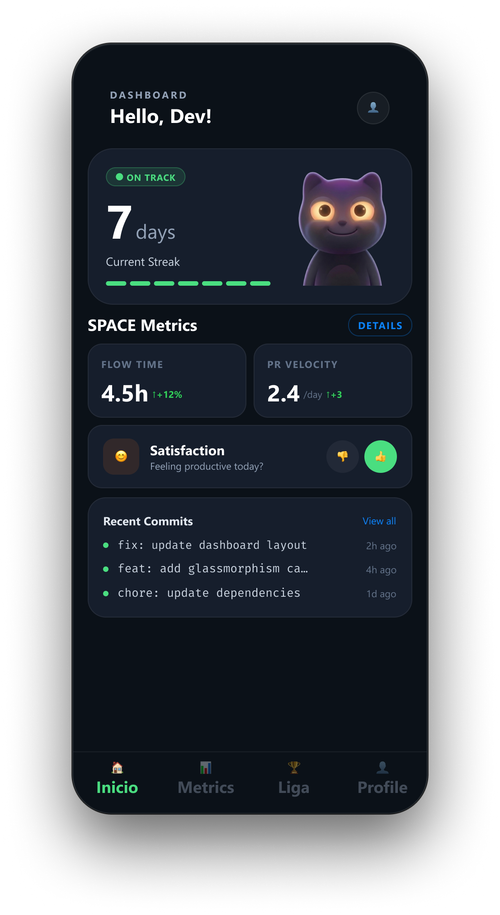
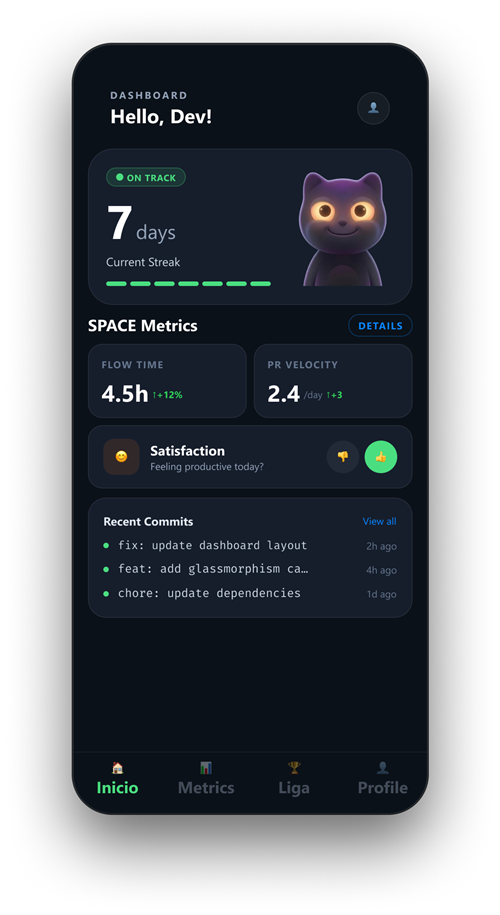
Update DuoGit/Cuak covers, add Flare WIP section, and turn the before/after comparison into an infinite slider
Updated cover art for DuoGit and Cuak with a matching corner radius, softened metric copy to read as projections rather than achieved results, added a "Currently building" section on the home page for Flare, and replaced the static Annotated UI mockup with a looping slider of the four DuoGit screens.

diff --git a/pages/duogit-design-system.html b/pages/duogit-design-system.html
@@ -160,11 +160,43 @@
     .ref-sheet-card img { width: 100%; display: block; }
     .ref-sheet-card p { padding: 10px 14px; font-size: 12px; color: var(--faint); letter-spacing: .04em; }
 
-    .ba-grid { display: grid; grid-template-columns: 1fr auto 1fr; gap: 16px; align-items: center; margin-top: 32px; }
+    .ba-grid { display: grid; grid-template-columns: 1fr auto 1fr; gap: 16px; align-items: stretch; margin-top: 32px; }
     @media (max-width: 640px) { .ba-grid { grid-template-columns: 1fr; } .ba-arrow { transform: rotate(90deg); } }
-    .ba-card { border-radius: var(--r); border: 1px solid var(--stroke-light); overflow: hidden; }
+    .ba-card { border-radius: var(--r); border: 1px solid var(--stroke-light); overflow: hidden; display: flex; flex-direction: column; }
     .ba-card-header { padding: 10px 16px; border-bottom: 1px solid var(--stroke); font-size: 11px; letter-spacing: .1em; text-transform: uppercase; color: var(--faint); }
-    .ba-card-body { padding: 20px; min-height: 180px; background: var(--bg-card); display: flex; align-items: center; justify-content: center; }
+    .ba-card-body { padding: 20px; min-height: 180px; height: 340px; background: var(--bg-card); display: flex; align-items: center; justify-content: center; }
+    .ba-card-body img { max-width: 100%; max-height: 100%; width: auto; height: auto; object-fit: contain; border-radius: 8px; display: block; }
+
+    .cmp-slider { overflow: hidden; position: relative; }
+    .cmp-slider::before, .cmp-slider::after {
+      content: ""; position: absolute; top: 0; bottom: 0; width: 48px; z-index: 2; pointer-events: none;
+    }
+    .cmp-slider::before { left: 0; background: linear-gradient(90deg, #0a0a0d, transparent); }
+    .cmp-slider::after { right: 0; background: linear-gradient(270deg, #0a0a0d, transparent); }
+    .cmp-track {
+      display: flex;
+      align-items: center;
+      gap: 16px;
+      height: 100%;
+      padding: 20px 24px;
+      width: max-content;
+      animation: cmp-scroll 22s linear infinite;
+    }
+    .cmp-slider:hover .cmp-track { animation-play-state: paused; }
+    .cmp-img {
+      max-height: 100%;
+      width: auto;
+      flex-shrink: 0;
+      border-radius: 8px;
+      filter: drop-shadow(0 10px 24px rgba(0,0,0,.4));
+    }
+    @keyframes cmp-scroll {
+      from { transform: translateX(0); }
+      to { transform: translateX(-50%); }
+    }
+    @media (prefers-reduced-motion: reduce) {
+      .cmp-track { animation: none; }
+    }
     .ba-placeholder { width: 100%; min-height: 160px; border: 2px dashed var(--stroke-light); border-radius: 8px; display: flex; flex-direction: column; align-items: center; justify-content: center; gap: 8px; color: var(--faint); font-size: 13px; }
     .ba-arrow { font-size: 24px; color: var(--accent); text-align: center; }
     .ba-annotation { font-size: 12px; color: var(--muted); padding: 12px 16px; border-top: 1px solid var(--stroke); line-height: 1.6; }
@@ -481,15 +513,24 @@
         <div class="ba-card">
           <div class="ba-card-header">Before — GitHub contribution graph</div>
           <div class="ba-card-body" style="padding:12px">
-            <img src="../assets/img/duogit/compare-github.png" alt="A real GitHub contribution graph — raw activity data, no framing" style="width:100%;border-radius:8px;display:block">
+            <img src="../assets/img/duogit/compare-github.png" alt="A real GitHub contribution graph — raw activity data, no framing">
           </div>
           <p class="ba-annotation">Real activity, zero framing. The graph doesn't say whether this pace is good, whether a streak is at risk, or how it should make you feel — just squares and a count.</p>
         </div>
         <div class="ba-arrow">→</div>
         <div class="ba-card">
           <div class="ba-card-header">After — DuoGit interface</div>
-          <div class="ba-card-body" style="padding:12px;background:#0a0a0d">
-            <img src="../assets/img/duogit/compare-dashboard.png" alt="DuoGit dashboard — same activity, framed as streak and emotional state" style="width:100%;border-radius:8px;display:block">
+          <div class="ba-card-body cmp-slider" style="padding:0;background:#0a0a0d">
+            <div class="cmp-track">
+              <img class="cmp-img" src="../assets/img/duogit/compare-dashboard.png" alt="DuoGit dashboard — same activity, framed as streak and emotional state">
+              <img class="cmp-img" src="../assets/img/duogit/compare-metrics.png" alt="DuoGit SPACE metrics screen">
+              <img class="cmp-img" src="../assets/img/duogit/compare-league.png" alt="DuoGit league rank screen">
+              <img class="cmp-img" src="../assets/img/duogit/compare-profile.png" alt="DuoGit profile screen">
+              <img class="cmp-img" src="../assets/img/duogit/compare-dashboard.png" alt="" aria-hidden="true">
+              <img class="cmp-img" src="../assets/img/duogit/compare-metrics.png" alt="" aria-hidden="true">
+              <img class="cmp-img" src="../assets/img/duogit/compare-league.png" alt="" aria-hidden="true">
+              <img class="cmp-img" src="../assets/img/duogit/compare-profile.png" alt="" aria-hidden="true">
+            </div>
           </div>
           <p class="ba-annotation">Same underlying data — streak framing, Ghost's emotional state, SPACE metrics. Absence feels <strong style="color:var(--accent)">recoverable, not shameful</strong>.</p>
         </div>
@@ -503,12 +544,7 @@
       <span class="section-label">07 — Annotated UI</span>
       <h2 class="section-title">Every element <span class="accent">earns its place</span></h2>
       <p class="section-text">Strategic annotations connecting UI decisions to behavioral mechanisms.</p>
-
-      <div class="annotated-wrap">
-        <div style="border-radius:var(--r);overflow:hidden;background:#0a0a0d;border:1px solid var(--stroke-light);padding:20px;max-width:420px">
-          <img src="../assets/img/duogit/annotated-dashboard.png" alt="DuoGit Dashboard screen — annotated" style="width:100%;border-radius:8px;display:block">
-        </div>
-      </div>
+      <span class="pill" style="border-color:rgba(251,191,36,.3);color:#fbbf24;background:rgba(251,191,36,.1);margin-top:16px;display:inline-block">In design — mockup, not shipped UI</span>
 
       <div class="annotation-list">
         <div class="annotation-item">

diff --git a/pages/duogit.html b/pages/duogit.html
@@ -37,8 +37,8 @@
       --serif: "Bricolage Grotesque", sans-serif;
       --sans: "Bricolage Grotesque", sans-serif;
       --max: 1040px;
-      --r: 12px;
-      --rl: 16px;
+      --r: 27.6px;
+      --rl: 27.6px;
     }
 
     * {
@@ -314,10 +314,10 @@
     .hero-image {
       position: relative;
       width: 100%;
-      aspect-ratio: 16/9;
+      aspect-ratio: 2000/996;
       background: var(--bg-card);
       border: 1px solid var(--stroke-light);
-      border-radius: var(--rl);
+      border-radius: 27.6px;
       overflow: hidden
     }
 
@@ -1186,22 +1186,12 @@
     <!-- HERO -->
     <section class="hero">
       <div class="container">
-        <div class="hero-label">
-          <span>Gamification · Developer Tools</span><span>·</span>
-          <span>iOS & Android · 2026</span>
-        </div>
         <h1 class="hero-title">
           The developer's <span class="accent">emotional companion</span>
         </h1>
         <p class="hero-subtitle">
           GitHub tracks what you did. DuoGit makes you want to do it again. A cross-platform mobile app that turns cold commit data into motivating emotional feedback — filling the gap between utilitarian dev tools and generic gamification.
         </p>
-        <div class="tldr">
-          <div class="tldr-item"><span>UX / Product Design</span></div>
-          <div class="tldr-item"><span>Figma · React Native · Expo</span></div>
-          <div class="tldr-item"><span>9 Screens Built</span></div>
-          <div class="tldr-item highlight"><span>Users checked streak in first 30s unprompted</span></div>
-        </div>
         <div class="hero-image">
           <img src="../assets/img/duogit/portada.jpg" alt="DuoGit — App Overview" />
         </div>
@@ -1272,19 +1262,19 @@
               <div class="feature-row">
                 <div class="feature-info">
                   <h4>Daily Commit Rate</h4>
-                  <p>Increase baseline from ~1 commit/day to ≥3 commits/day</p>
+                  <p>Target: increase baseline from ~1 commit/day to ≥3 commits/day</p>
                 </div>
               </div>
               <div class="feature-row">
                 <div class="feature-info">
                   <h4>Weekly Streak Duration</h4>
-                  <p>Increase baseline from 2-3 days to 5+ consecutive days</p>
+                  <p>Target: increase baseline from 2-3 days to 5+ consecutive days</p>
                 </div>
               </div>
               <div class="feature-row">
                 <div class="feature-info">
                   <h4>Post-Streak Recovery</h4>
-                  <p>Improve rate of recovery within 3 days from <30% to >60%</p>
+                  <p>Target: improve rate of recovery within 3 days from <30% to >60%</p>
                 </div>
               </div>
             </div>
@@ -1741,7 +1731,7 @@
             </div>
             <div>
               <div style="margin-top:12px;background:var(--bg-card);border:1px solid var(--stroke-light);border-radius:var(--rl);overflow:hidden;padding:28px;display:flex;flex-direction:column;justify-content:center;gap:16px;">
-                <p style="font-size:15px;line-height:1.8;color:var(--text-muted);">DuoGit owns the <strong style="color:var(--text);">developer behavior layer</strong> by pairing live commit sync with emotional streak coaching. It turns progress signals into motivating feedback, closing the gap between code tracking and sustained coding habits.</p>
+                <p style="font-size:15px;line-height:1.8;color:var(--text-muted);">DuoGit owns the <strong style="color:var(--text);">developer behavior layer</strong> by pairing commit sync with emotional streak coaching. It's designed to turn progress signals into motivating feedback, closing the gap between code tracking and sustained coding habits.</p>
                 <p style="font-size:15px;line-height:1.8;color:var(--text-muted);">Where GitHub tracks history and Duolingo gamifies generic habits, DuoGit is the only product built specifically for <strong style="color:var(--text);">developer consistency</strong> — not just activity.</p>
               </div>
             </div>

diff --git a/index.html b/index.html
@@ -92,6 +92,29 @@
         </div>
       </section>
 
+      <!-- CURRENTLY BUILDING -->
+      <section class="work" style="padding-top: 0;">
+        <div class="container">
+          <p class="section-label">Currently building</p>
+          <p class="section-sub">The case studies above are finished systems. This one's still in the workshop.</p>
+
+          <article class="case now-case">
+            <div class="case-visual now-visual">
+              <img src="./assets/img/flare/portada.jpg" alt="Flare — Synapse engine preview" loading="lazy" decoding="async">
+            </div>
+            <div class="case-body">
+              <p class="case-meta"><span class="wip-dot" aria-hidden="true"></span>2026 · In progress</p>
+              <h3 class="case-title">Flare</h3>
+              <p class="case-desc">The second proactive brain for content creators. A React Native + Skia app that surfaces micro-trends before they go viral and adapts them to each creator's niche through vector search — built around Synapse, an infinite physics canvas where sources, signals and predictions live as connected nodes.</p>
+
+              <div class="case-links">
+                <span class="case-link is-disabled">Case study coming soon</span>
+              </div>
+            </div>
+          </article>
+        </div>
+      </section>
+
       <!-- ESA FRAMEWORK -->
       <section class="esa">
         <div class="container">

diff --git a/assets/css/styles.css b/assets/css/styles.css
@@ -317,6 +317,39 @@ a { color: inherit; text-decoration: none; }
   .case-visual.is-contain img { max-height: 480px; }
 }
 
+/* CURRENTLY BUILDING — single wide card, image on top instead of side-by-side */
+.now-case { grid-template-columns: 1fr; }
+.now-visual {
+  aspect-ratio: 1200 / 593;
+  background: #10151f;
+}
+.now-visual img {
+  width: 100%;
+  height: 100%;
+  object-fit: cover;
+}
+
+.wip-dot {
+  display: inline-block;
+  width: 7px;
+  height: 7px;
+  border-radius: 50%;
+  background: var(--accent);
+  margin-right: 8px;
+  box-shadow: 0 0 0 3px rgba(155,143,212,0.18);
+}
+
+.case-link.is-disabled {
+  font-size: 13px;
+  font-weight: 600;
+  letter-spacing: 0.02em;
+  padding: 11px 20px;
+  border-radius: 999px;
+  border: 1px dashed var(--stroke);
+  color: var(--muted);
+  cursor: default;
+}
+
 @media (prefers-reduced-motion: reduce) {
   .case-visual img { transition: none; }
   .case:hover .case-visual.is-bleed img,

diff --git a/pages/cuak.html b/pages/cuak.html
@@ -672,7 +672,7 @@
         </div>
 
         <!-- PORTADA -->
-        <div style="margin-top:40px;border-radius:20px;overflow:hidden;box-shadow:0 24px 60px rgba(0,0,0,0.4)">
+        <div style="margin-top:40px;border-radius:27.6px;overflow:hidden;box-shadow:0 24px 60px rgba(0,0,0,0.4)">
           <img src="../assets/img/cuak/portada.jpg" alt="Cuak — cover" style="width:100%;height:auto;display:block;">
         </div>
 
